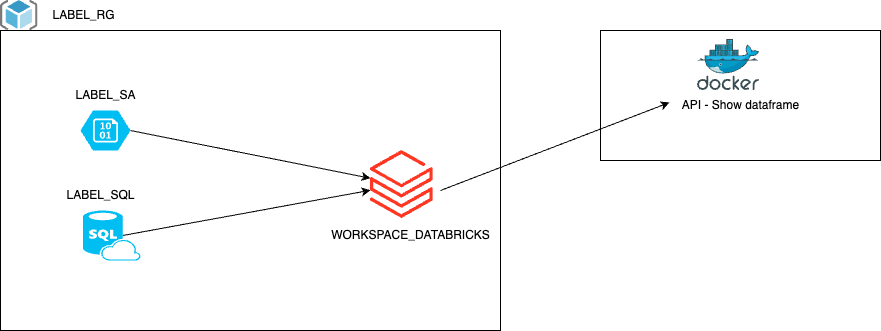
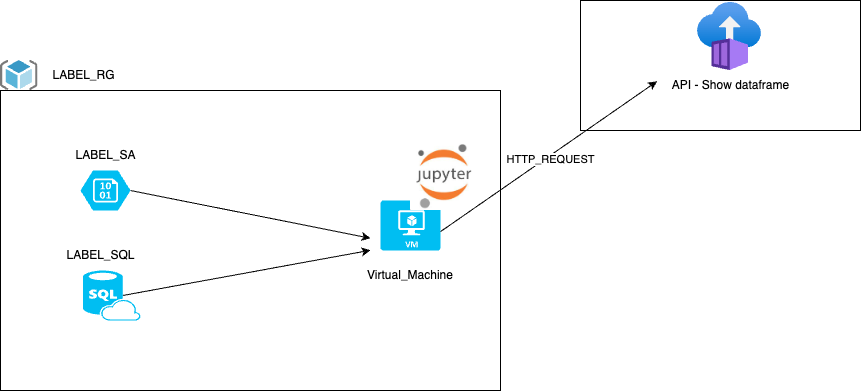
Updated Container registry repo

diff --git a/Azure/practica_5/README.md b/Azure/practica_5/README.md
@@ -31,34 +31,19 @@ Revisamos nuevos RG creados.
 
 Cambios que tenemos que hacer en el notebook de Algorithm.
 
-1. Tenemos que transformar el Dataframe a JSON.
-
-```
-# Convertir a JSON
-json_data = df.toJSON().collect()
-
-# Imprimir el JSON resultante
-print(json_data)
-
-```
-
-2. Tenemos que instalar, con pip, la libreria de requests.
-```
-%pip install requests
-```
-
-3. Añadimos el código para hacer el envio a la api, hay que cambiar la URL para que apunte a nuestra api.
+1. Añadimos el código para hacer el envio a la api, hay que cambiar la URL para que apunte a nuestra api.
 ```
 import requests
 import json
 
 # Convertir el DataFrame de PySpark a una lista de listas (encabezados + datos)
-columns = df.columns
-data = [row.asDict() for row in df.collect()]
+columns = joined_data.columns
+data = [row.asDict() for row in joined_data.collect()]
 tabla = [columns] + data
+print(tabla)
 
 # URL de la API
-url = "http://localhost:5000/api/tabla"
+url = "http://PUBLIC_IP_CONTAINER:5000/api/tabla"
 
 # Enviar la solicitud POST con el DataFrame convertido a JSON
 response = requests.post(url, json=tabla)
@@ -69,4 +54,4 @@ print(response.text)
 
 ```
 
-4. Si todo fue bien, podemos ver en el log del contenedor los datos enviamos.
+2. Si todo fue bien, podemos ver en el log del contenedor los datos enviamos.
